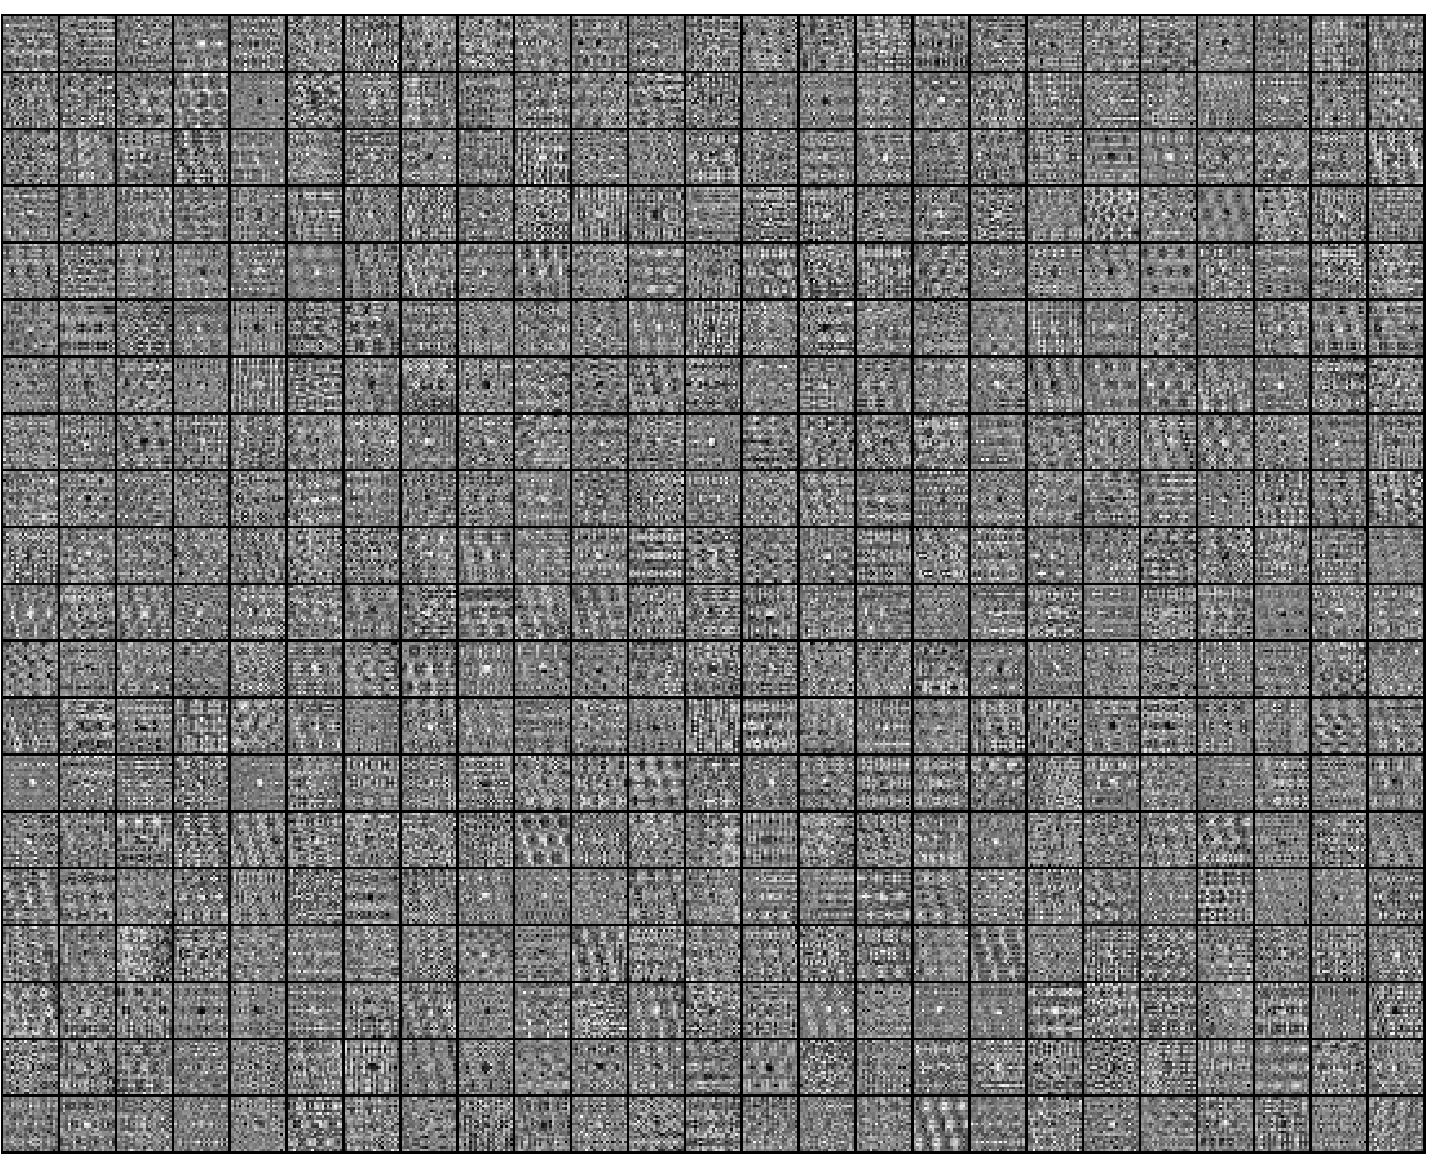
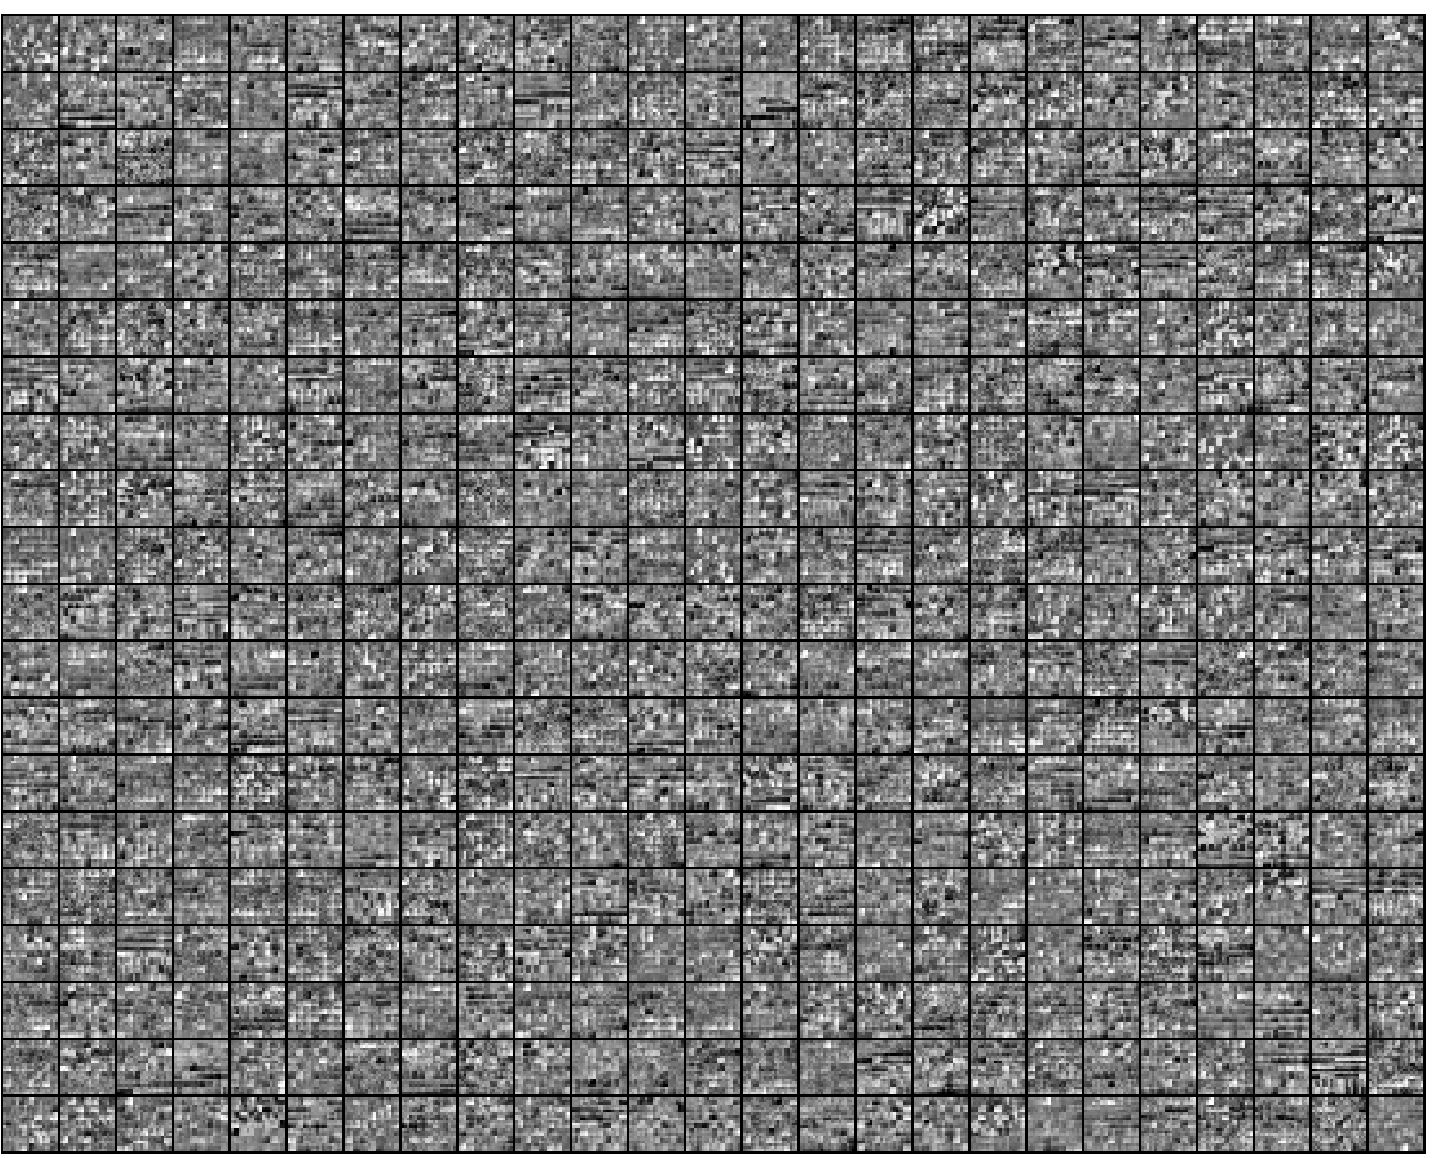
Setup for run

diff --git a/train.m b/train.m
@@ -8,12 +8,12 @@ close all
 %  change the parameters below.
 params.patchsize = 21;
 params.visibleSize = params.patchsize* params.patchsize;   % number of input units 
-params.hiddenSize = 500;     % number of hidden units 
-params.sparsityParam = 0.05;   % desired average activation of the hidden units.
+params.hiddenSize = 600;     % number of hidden units 
+params.sparsityParam = 0.01;   % desired average activation of the hidden units.
                      % (This was denoted by the Greek alphabet rho, which looks like a lower-case "p",
 		     %  in the lecture notes). 
 params.lambda = 0.0001;     % weight decay parameter       
-params.beta = 0.01;            % weight of sparsity penalty term       
+params.beta = 0.001;            % weight of sparsity penalty term       
 params.train_type = 0; % 0 or 1 depending on repeated and non repeated case
 params.batchsize = 250;
 params.alpha = 0.1;
@@ -22,11 +22,10 @@ params.alpha = 0.1;
 %
 %  After implementing sampleIMAGES, the display_network command should
 %  display a random sample of 200 patches from the dataset
-load patches
 % patches = sampleIMAGES(params.train_type,params.patchsize);
-display_network(patches(:,randi(size(patches,2),200,1),1),8);
 % save patches
-
+load patches
+display_network(patches(:,randi(size(patches,2),200,1),1),8);
 [p,q,~] = size(patches);
 
 Xtrain = patches(:,1:ceil(0.6*q),:);
@@ -88,12 +87,12 @@ theta = initializeParameters(params.hiddenSize, params.visibleSize);
 %addpath minFunc/
 
 options = optimset('MaxIter', 600);	  % Maximum number of iterations of L-BFGS to run 
-%options.display = 'on';
-% options.Method = 'LBFGS'; % Here, we use conjugate gradient to optimize our cost
+options.display = 'on';
+options.Method = 'LBFGS'; % Here, we use conjugate gradient to optimize our cost
                           % function. L-BFGS can also be used as in the original exercise 
                           % code
-                          
-[opttheta, cost] = fmincg(@(p)sparseAutoencoderCost(p,params.visibleSize,params.hiddenSize,params.lambda,params.sparsityParam,params.beta,Xtrain,params.train_type),theta,options,Xval,params); 
+ [opttheta, cost,exitflag,output]= minFunc(@(p)sparseAutoencoderCost(p,params.visibleSize,params.hiddenSize,params.lambda,params.sparsityParam,params.beta,Xtrain,params.train_type),theta,options);                         
+%[opttheta, cost] = fmincg(@(p)sparseAutoencoderCost(p,params.visibleSize,params.hiddenSize,params.lambda,params.sparsityParam,params.beta,Xtrain,params.train_type),theta,options,Xval,params); 
 %%======================================================================
 %% STEP 5: Visualization 
 
@@ -106,8 +105,10 @@ savefig('kernels.png','png')
 testData = imread('cameraman.tif');
 figure; subplot(3,1,1);
 imshow(testData,[])
-testData = imnoise(testData,'gaussian');
-testData =imnoise(testData,'poisson');
+G = fspecial('gaussian',[3,3],1);
+%testData = imnoise(testData,'gaussian',0,0.001);
+testData = imfilter(testData,G,'same');
+%testData =imnoise(testData,'salt & pepper');
 testData =imnoise(testData,'speckle');
 [m,n] = size(testData);
 
